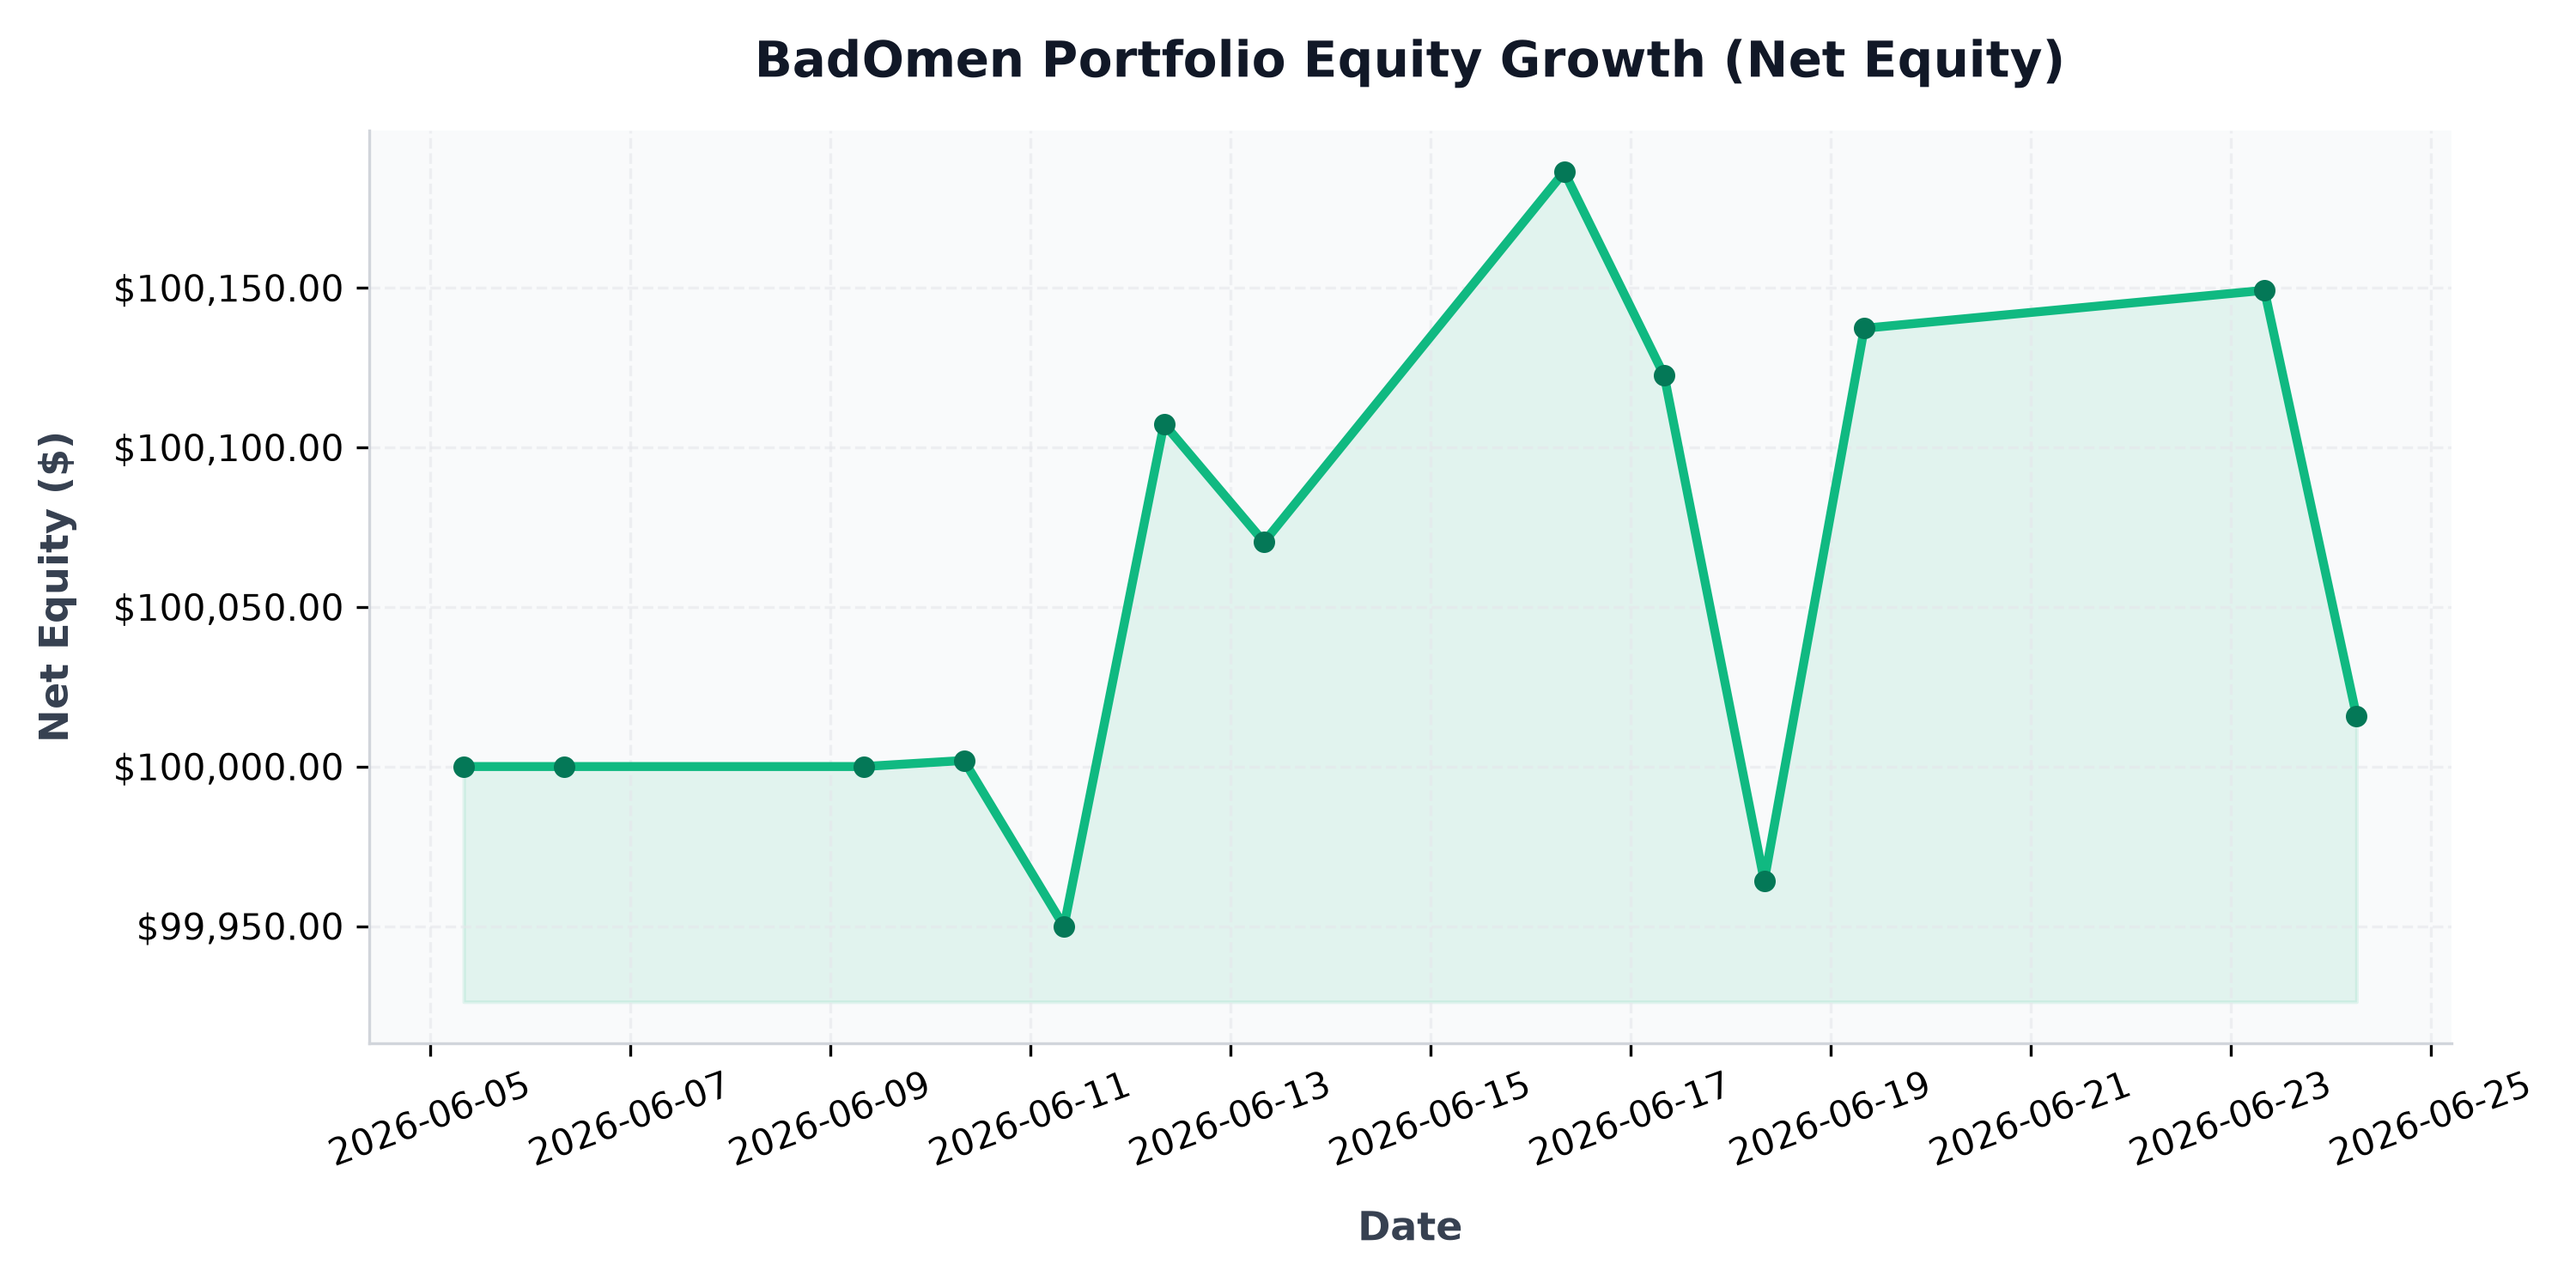
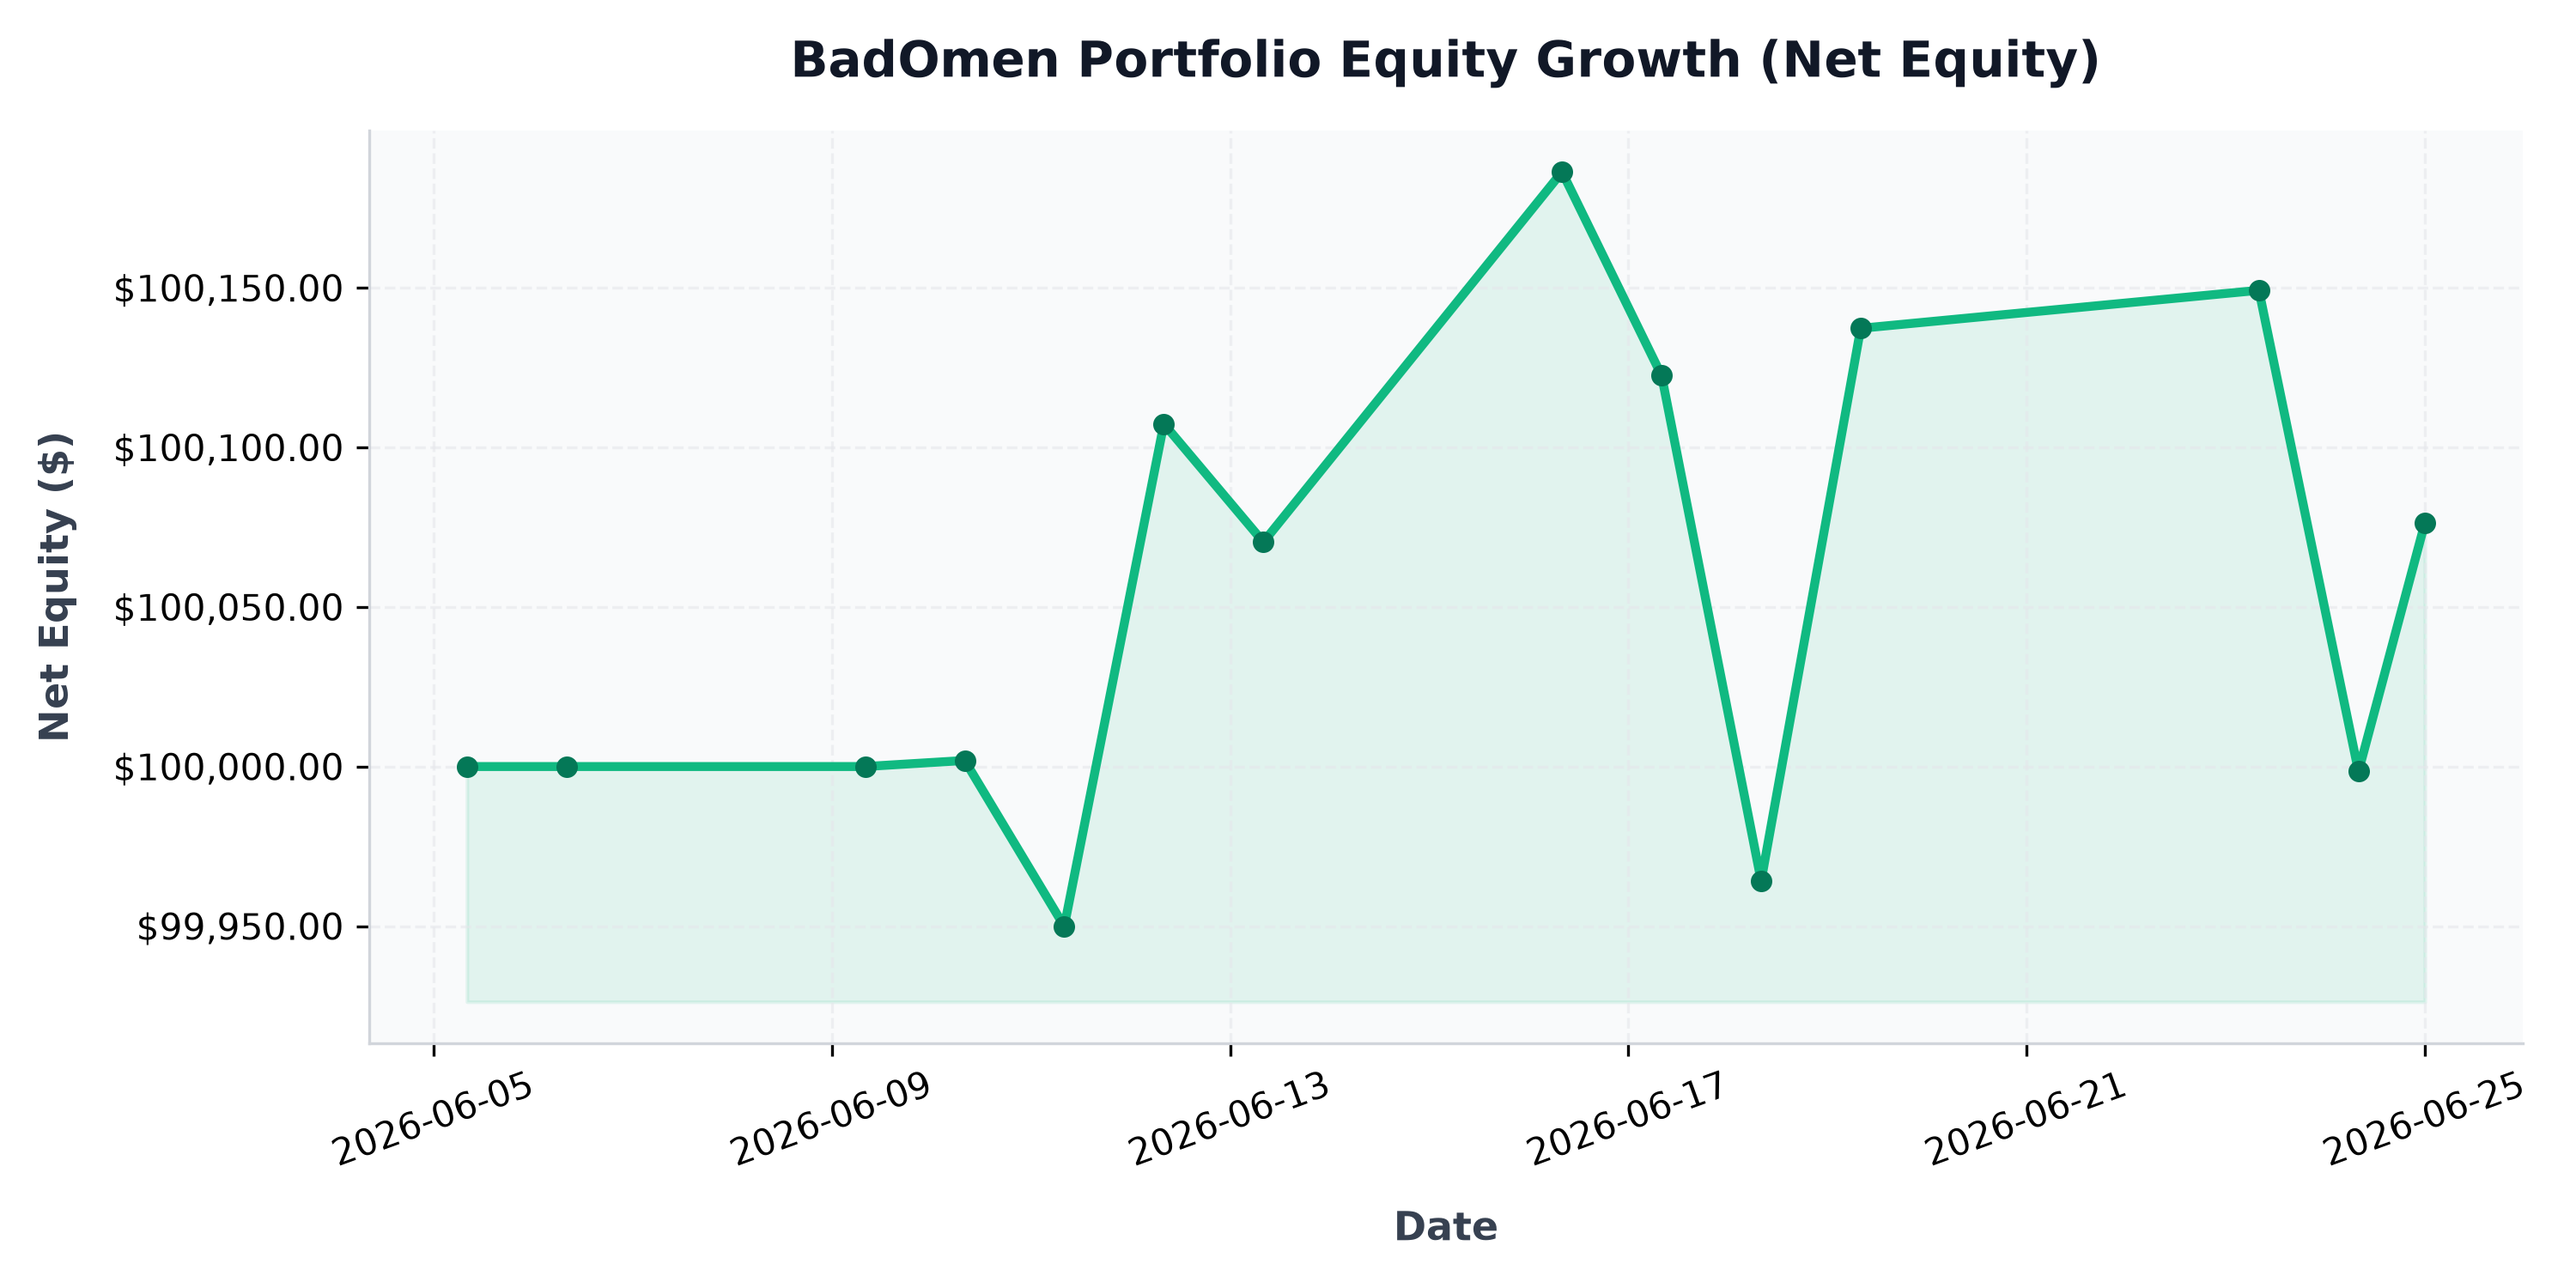
auto: daily portfolio status update - 2026-06-25 00:00:14

diff --git a/src/content/posts/portfolio-performance.md b/src/content/posts/portfolio-performance.md
@@ -1,6 +1,6 @@
 ---
 title: "BadOmen Algorithmic Portfolio Performance & PnL Report"
-pubDatetime: 2026-06-24T06:05:12.103117+08:00
+pubDatetime: 2026-06-25T00:00:14.754920+08:00
 description: "Live performance metrics, active holdings, and historic equity curve for the BadOmen automated paper trading portfolio."
 featured: true
 draft: false
@@ -16,11 +16,11 @@ Welcome to the live performance dashboard for **BadOmen**, our automated algorit
 ## 📊 Portfolio Summary
 | Performance Metric | Value | description |
 | :--- | :--- | :--- |
-| **Net Portfolio Equity** | **$100,015.85** | Total current liquidation value of cash and stock holdings |
-| **Total Unrealized P&L** | 🟢 **+$24.93** (+0.02%) | Total return of current open holdings |
+| **Net Portfolio Equity** | **$100,076.28** | Total current liquidation value of cash and stock holdings |
+| **Total Unrealized P&L** | 🟢 **+$88.11** (+0.09%) | Total return of current open holdings |
 | **Cash Balance** | $89,485.78 | Idle reserve currency available for limit orders |
-| **Buying Power** | $382,680.05 | Margin-backed buying power for entry allocations |
-| **Report Updated** | `2026-06-24 06:05:12 (SGT)` | Timestamp of daily execution and sync run |
+| **Buying Power** | $382,849.26 | Margin-backed buying power for entry allocations |
+| **Report Updated** | `2026-06-25 00:00:14 (SGT)` | Timestamp of daily execution and sync run |
 
 ## 📈 Net Equity Growth Curve
 The chart below illustrates the historical performance of the account starting from our baseline capital funding of $100,000.00.
@@ -35,17 +35,17 @@ The chart below illustrates the exposure of our currently held active positions 
 ## 💼 Current Position Holdings
 | Ticker | Industry | Shares Owned | Average Entry Cost | Current Price | Unrealized P&L | Return (%) |
 | :--- | :--- | :--- | :--- | :--- | :--- | :--- |
-| **AN** | Auto & Truck Dealerships | 5 | $188.51 | $192.16 | 🟢 +$18.26 | +1.94% |
-| **AVGO** | Semiconductors | 1 | $385.71 | $381.62 | 🔴 $-4.09 | -1.06% |
-| **GDDY** | Software - Infrastructure | 12 | $76.21 | $76.10 | 🔴 $-1.32 | -0.14% |
-| **GGAL** | Banks - Regional | 17 | $56.04 | $51.28 | 🔴 $-80.91 | -8.49% |
-| **GPI** | Auto & Truck Dealerships | 3 | $316.15 | $318.25 | 🟢 +$6.30 | +0.66% |
-| **ITRI** | Scientific & Technical Instruments | 12 | $81.80 | $81.10 | 🔴 $-8.40 | -0.86% |
-| **META** | Internet Content & Information | 1 | $568.17 | $562.50 | 🔴 $-5.67 | -1.00% |
-| **NU** | Banks - Regional | 85 | $11.60 | $12.58 | 🟢 +$83.42 | +8.46% |
-| **ORCL** | Software - Infrastructure | 5 | $181.95 | $165.68 | 🔴 $-81.36 | -8.94% |
-| **PATH** | Software - Infrastructure | 187 | $10.42 | $10.20 | 🔴 $-41.20 | -2.11% |
-| **SMCI** | Computer Hardware | 33 | $29.25 | $33.49 | 🟢 +$139.90 | +14.49% |
+| **AN** | Auto & Truck Dealerships | 5 | $188.51 | $194.63 | 🟢 +$30.61 | +3.25% |
+| **AVGO** | Semiconductors | 1 | $385.71 | $384.56 | 🔴 $-1.16 | -0.30% |
+| **GDDY** | Software - Infrastructure | 12 | $76.21 | $80.17 | 🟢 +$47.46 | +5.19% |
+| **GGAL** | Banks - Regional | 17 | $56.04 | $49.33 | 🔴 $-114.06 | -11.97% |
+| **GPI** | Auto & Truck Dealerships | 3 | $316.15 | $318.77 | 🟢 +$7.88 | +0.83% |
+| **ITRI** | Scientific & Technical Instruments | 12 | $81.80 | $82.66 | 🟢 +$10.32 | +1.05% |
+| **META** | Internet Content & Information | 1 | $568.17 | $562.81 | 🔴 $-5.36 | -0.94% |
+| **NU** | Banks - Regional | 85 | $11.60 | $12.64 | 🟢 +$88.95 | +9.02% |
+| **ORCL** | Software - Infrastructure | 5 | $181.95 | $158.90 | 🔴 $-115.25 | -12.67% |
+| **PATH** | Software - Infrastructure | 187 | $10.42 | $10.51 | 🟢 +$16.79 | +0.86% |
+| **SMCI** | Computer Hardware | 33 | $29.25 | $32.95 | 🟢 +$121.94 | +12.63% |
 
 ## 🔴 Recent Realized Trades
 | Ticker | Shares Sold | Entry Price | Exit Price | Strategy Trigger | Realized Return | Exit Date |
